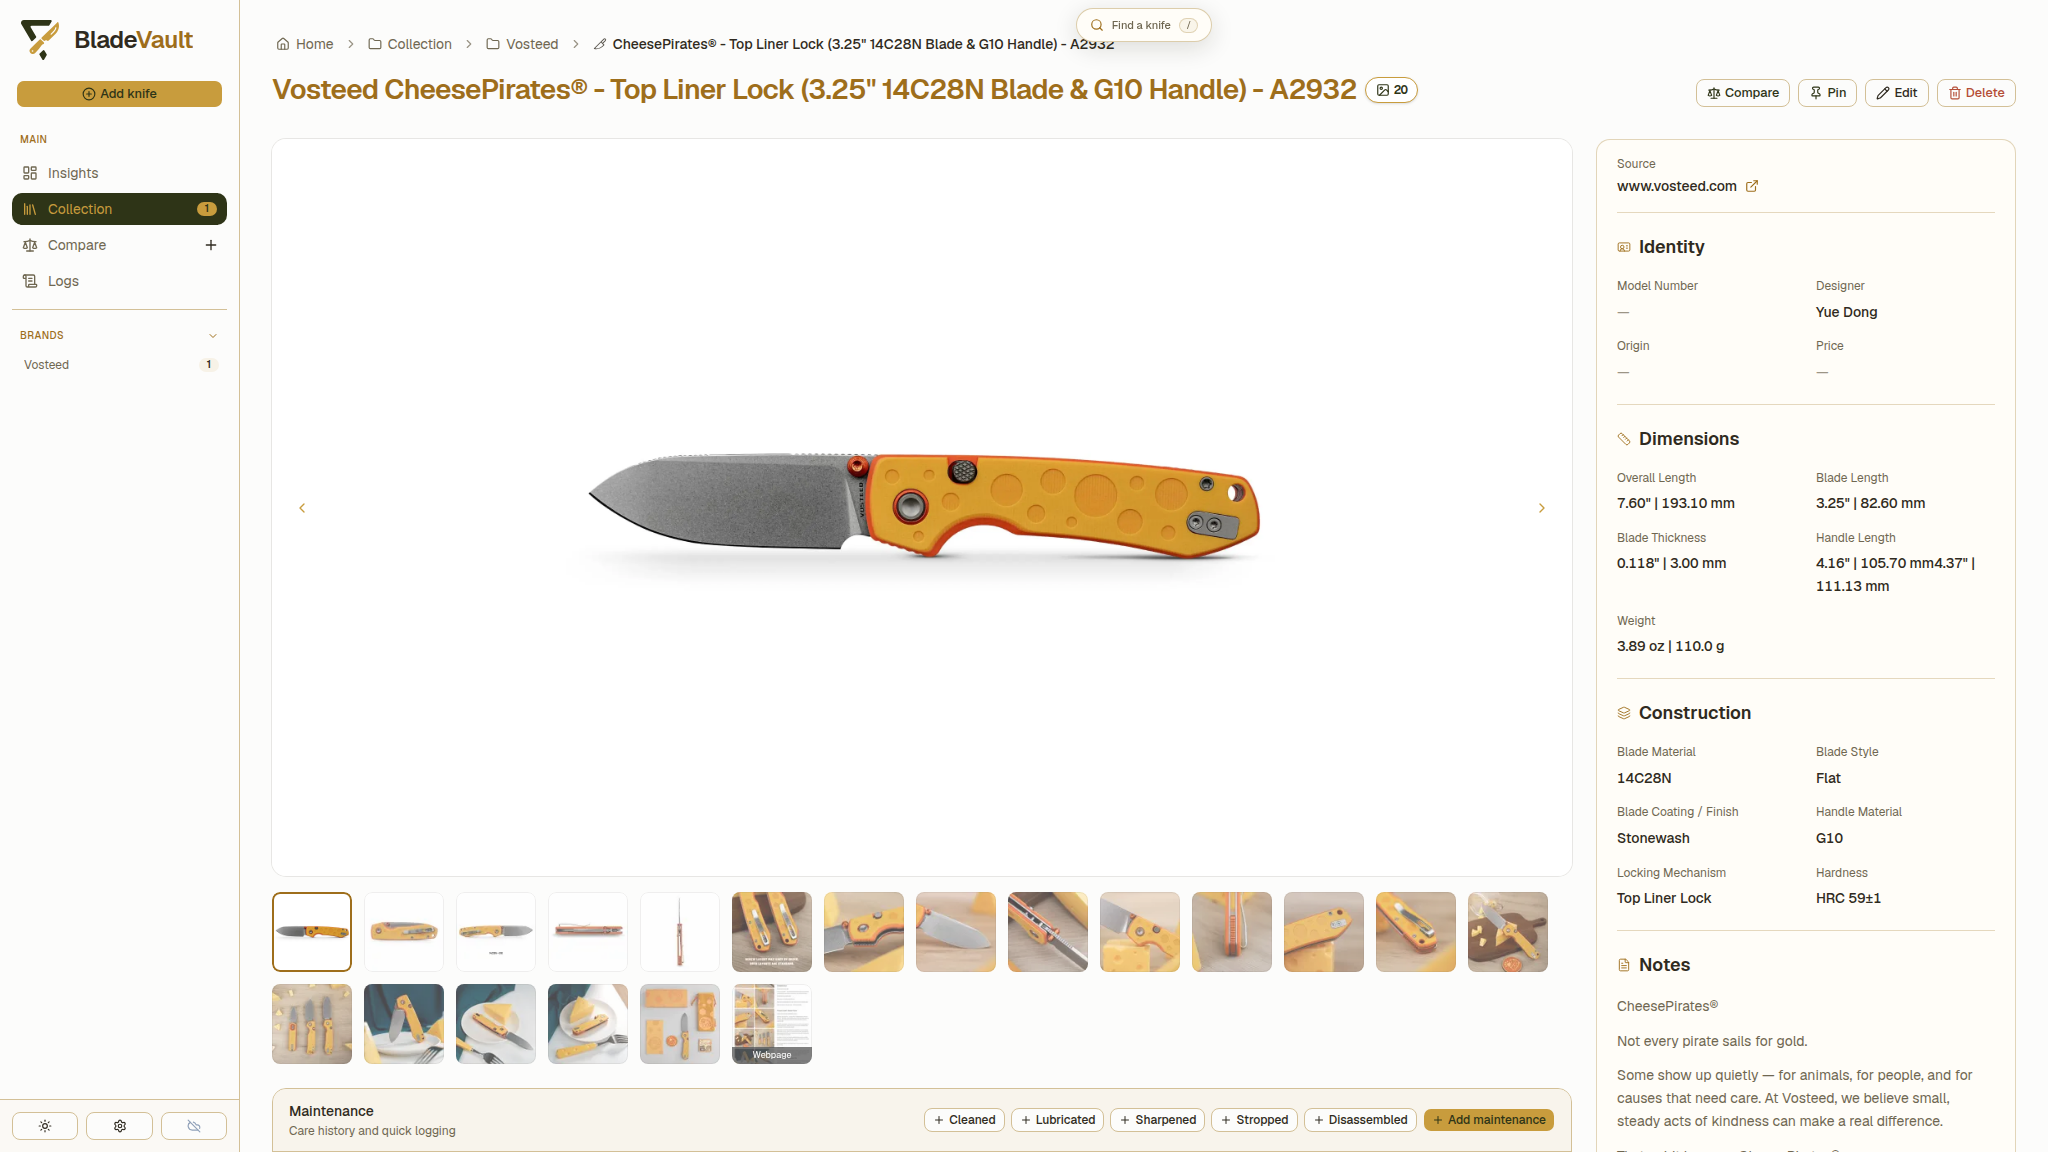
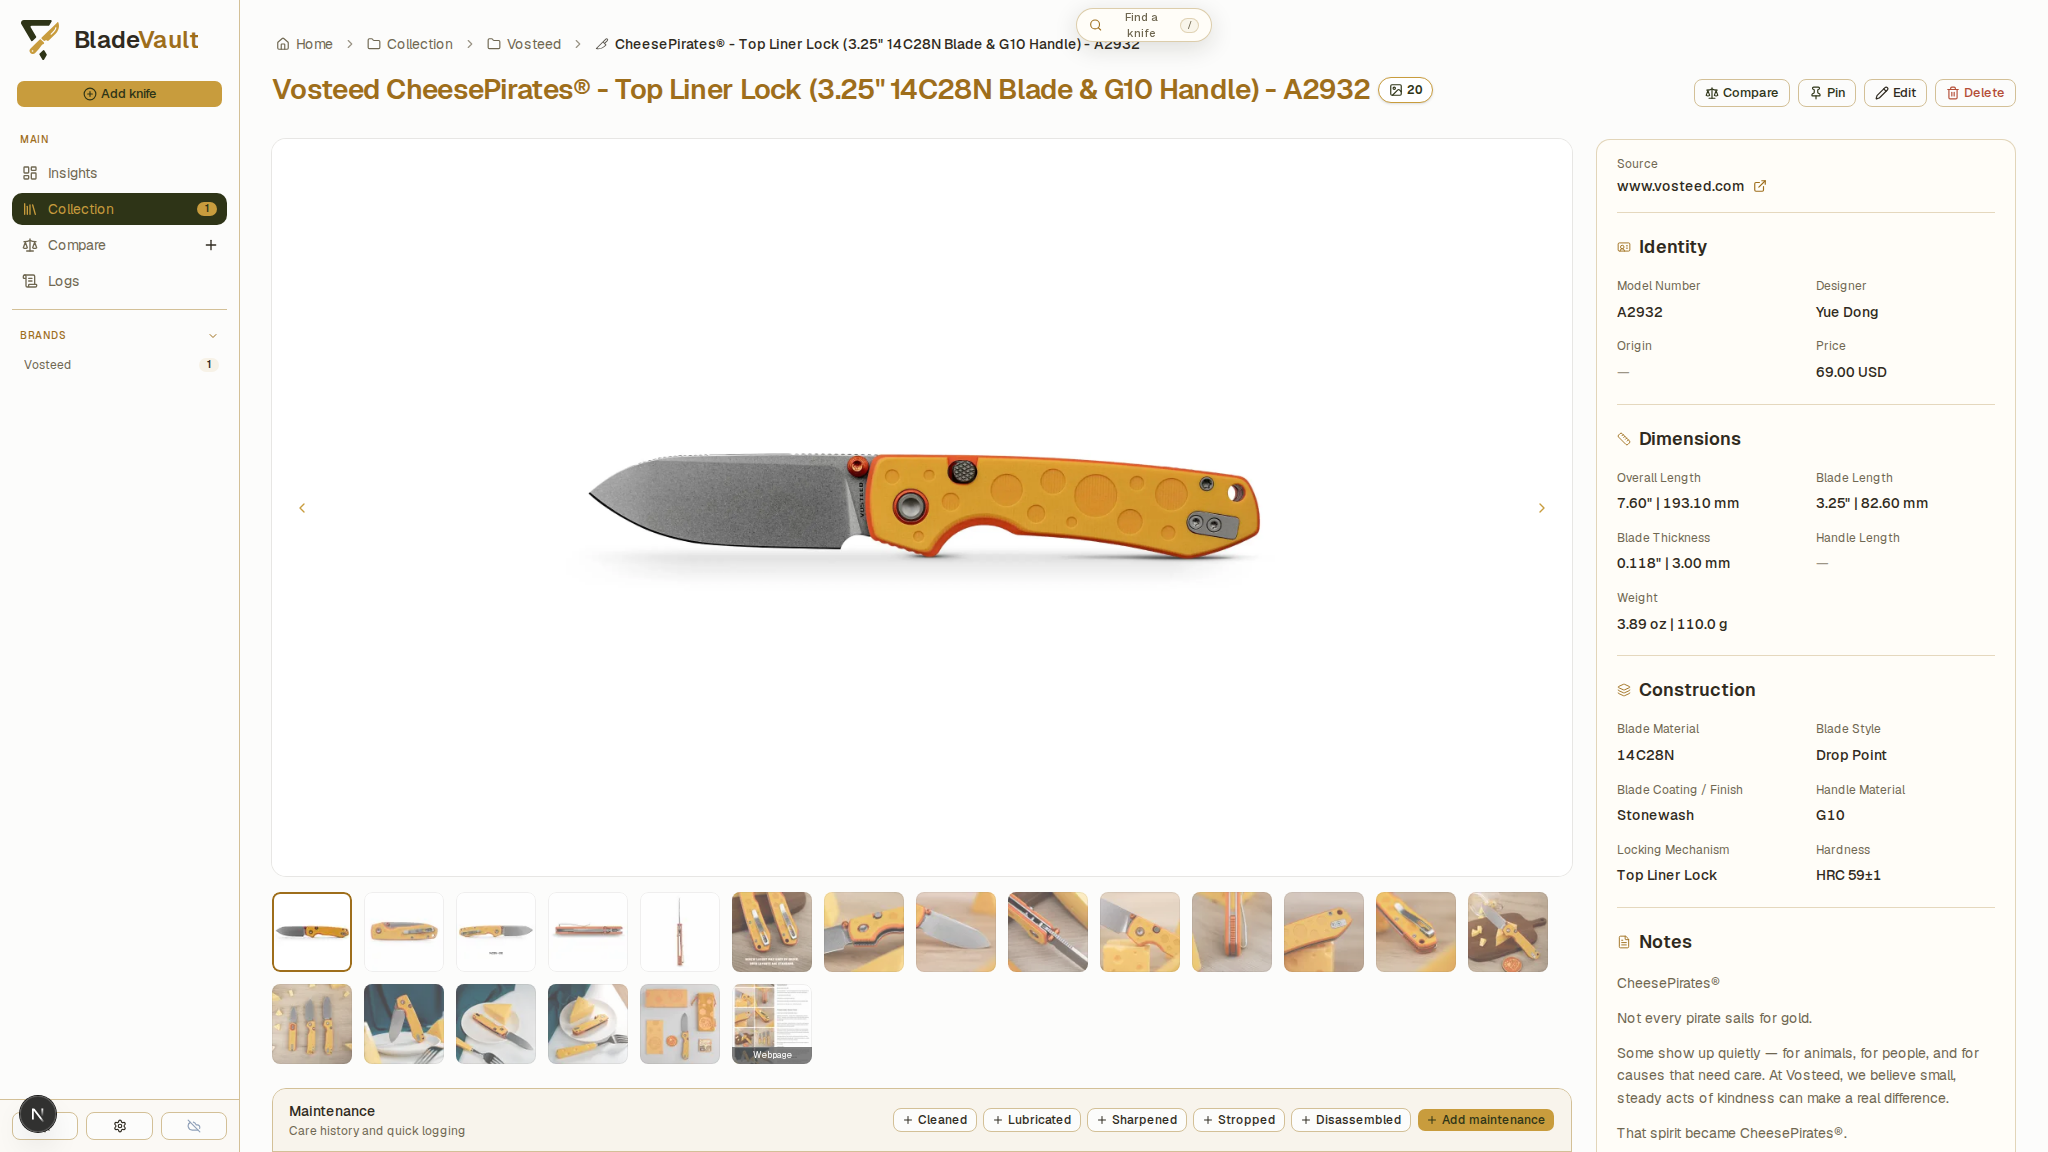
docs(manual-mode): rename the page, fix the wording, re-shoot the import
- docs/guides/add-a-knife-by-hand.md -> add-knife-in-manual-mode.md, with a
  redirect in docs/.gitbook.yaml so the old path keeps working; SUMMARY and
  every cross-reference updated.
- Rewrote the phrasing Kola flagged: the Manual tab is no longer described as
  'typing a knife in by hand' — the sentence now says it is for entering a
  knife yourself, and the other 'by hand' phrasings are gone.
- Rebased onto main (which now carries #353) and re-ran the real CheesePirates
  import against a copy of the walkthrough vault: the fixed scraper leaves
  handle length empty and reports 'Vosteed lists conflicting handle length
  values ... This field was left empty; verify it before saving.' The imported
  form, the saved record and the collection card are re-shot, and step 3 now
  documents that behaviour.

diff --git a/docs/guides/add-knife-to-collection.md b/docs/guides/add-knife-to-collection.md
@@ -1,6 +1,6 @@
 # Add Knife to collection
 
-BladeVault can fill a record for you instead of you typing a dozen specifications by hand: paste a product URL, review what came back, save. Every screenshot below is from a real import — a Vosteed CheesePirates (A2932) from `vosteed.com`.
+BladeVault can fill a record for you instead of typing a dozen specifications yourself: paste a product URL, review what came back, save. Every screenshot below is from a real import — a Vosteed CheesePirates (A2932) from `vosteed.com`.
 
 ## 1. Click **Add knife**
 
@@ -8,7 +8,8 @@ Click **Add knife** at the top of the sidebar:
 
 ![The Add knife button at the top of the sidebar](../images/add-knife-button.png)
 
-The form opens on the **Scrape URL** tab — the other tab, **Manual**, is for [typing a knife in by hand](add-a-knife-by-hand.md):
+The form opens on the **Scrape URL** tab. The other tab, **Manual**, is for entering a knife
+yourself: [Add knife in manual mode](add-knife-in-manual-mode.md).
 
 ![The Add knife form, open on the Scrape URL tab](../images/add-knife-form.png)
 
@@ -22,7 +23,7 @@ Put the retailer's product page into **Product URL** and click **Scrape** (press
 
 ![Imported values from a Vosteed product page, with the scraped page preview beside the form](../images/add-knife-imported.png)
 
-The form comes back filled: brand/maker, model name, designer, dimensions (overall, blade, handle, weight), construction (blade material, style, coating, handle material, locking mechanism, hardness), and the description. Every field stays editable, and **Scraped page preview** shows the source page next to the form so a value can be checked against the page it came from.
+The form comes back filled: brand/maker, model name, model number, price, dimensions (overall, blade, thickness, weight), construction (blade material, style, coating, handle material, locking mechanism, hardness), and the description. Where a page gives two different values for one field — this one lists two handle lengths for its variants — the import leaves the field empty and says why, so nothing is guessed in. Every field stays editable, and **Scraped page preview** shows the source page next to the form so a value can be checked against the page it came from.
 
 ## 4. Choose the images to keep
 
@@ -56,7 +57,7 @@ In the collection it appears as a card, ready for the next one.
 
 ## Add a knife manually
 
-The **Manual** tab gives you every field by hand, which is the right path for a knife with no product page — a gift, a custom build, an older piece with no online listing. Along with the built-in specifications you can store pricing, provenance, notes, links, and local photos. Full walkthrough: [Add knife in manual mode](add-a-knife-by-hand.md).
+The **Manual** tab gives you every field to fill in yourself, which is the right path for a knife with no product page — a gift, a custom build, an older piece with no online listing. Along with the built-in specifications you can store pricing, provenance, notes, links, and local photos. Full walkthrough: [Add knife in manual mode](add-knife-in-manual-mode.md).
 
 ## When a retailer blocks the import
 

diff --git a/docs/quickstart.md b/docs/quickstart.md
@@ -30,7 +30,7 @@ Open [http://localhost:5500](http://localhost:5500).
 
 - **Import from a URL** — paste a product URL from a supported retailer and BladeVault fills in the details. If the page needs a human touch, the import opens an interactive browser fallback so you can finish it yourself. See [Add Knife to collection](guides/add-knife-to-collection.md).
 - **Import a list** — paste several links and let **Batch scrape** work through them one at a time. See [Add several knives at once](guides/add-several-knives.md).
-- **Enter it manually** — add specifications, pricing, provenance, notes, links, and local photos yourself. See [Add knife in manual mode](guides/add-a-knife-by-hand.md).
+- **Enter it manually** — add specifications, pricing, provenance, notes, links, and local photos yourself. See [Add knife in manual mode](guides/add-knife-in-manual-mode.md).
 
 ## 3. Make the collection yours
 

diff --git a/docs/guides/add-knife-in-manual-mode.md b/docs/guides/add-knife-in-manual-mode.md
@@ -1,6 +1,6 @@
 # Add knife in manual mode
 
-Some knives have no page to import: a piece bought second-hand, a gift, a custom build, a model whose listing is long gone. The **Manual** tab is the other half of **Add knife** — every field by hand, no URL needed. The record below is a limited-edition Vosteed Bellamy (M390, carbon fibre) entered this way.
+Some knives have no page to import: a piece bought second-hand, a gift, a custom build, a model whose listing is long gone. The **Manual** tab is the other half of **Add knife** — you fill in every field yourself, no URL needed. The record below is a limited-edition Vosteed Bellamy (M390, carbon fibre) entered this way.
 
 ## 1. Switch to the Manual tab
 

diff --git a/docs/guides/add-several-knives.md b/docs/guides/add-several-knives.md
@@ -46,4 +46,4 @@ Batch scrape uses the same browser engine as a single import, so it needs Chromi
 ## Next
 
 - [Add Knife to collection](add-knife-to-collection.md) — the single-URL walkthrough, including the interactive fallback.
-- [Add knife in manual mode](add-a-knife-by-hand.md) — for the knives no page describes.
+- [Add knife in manual mode](add-knife-in-manual-mode.md) — for the knives no page describes.

diff --git a/docs/SUMMARY.md b/docs/SUMMARY.md
@@ -17,7 +17,7 @@
 
 - [Add Knife to collection](guides/add-knife-to-collection.md)
 - [Add several knives at once](guides/add-several-knives.md)
-- [Add knife in manual mode](guides/add-a-knife-by-hand.md)
+- [Add knife in manual mode](guides/add-knife-in-manual-mode.md)
 - [Update a saved knife](guides/update-a-saved-knife.md)
 - [Organize your collection](guides/collection.md)
 - [Compare knives](guides/compare.md)
